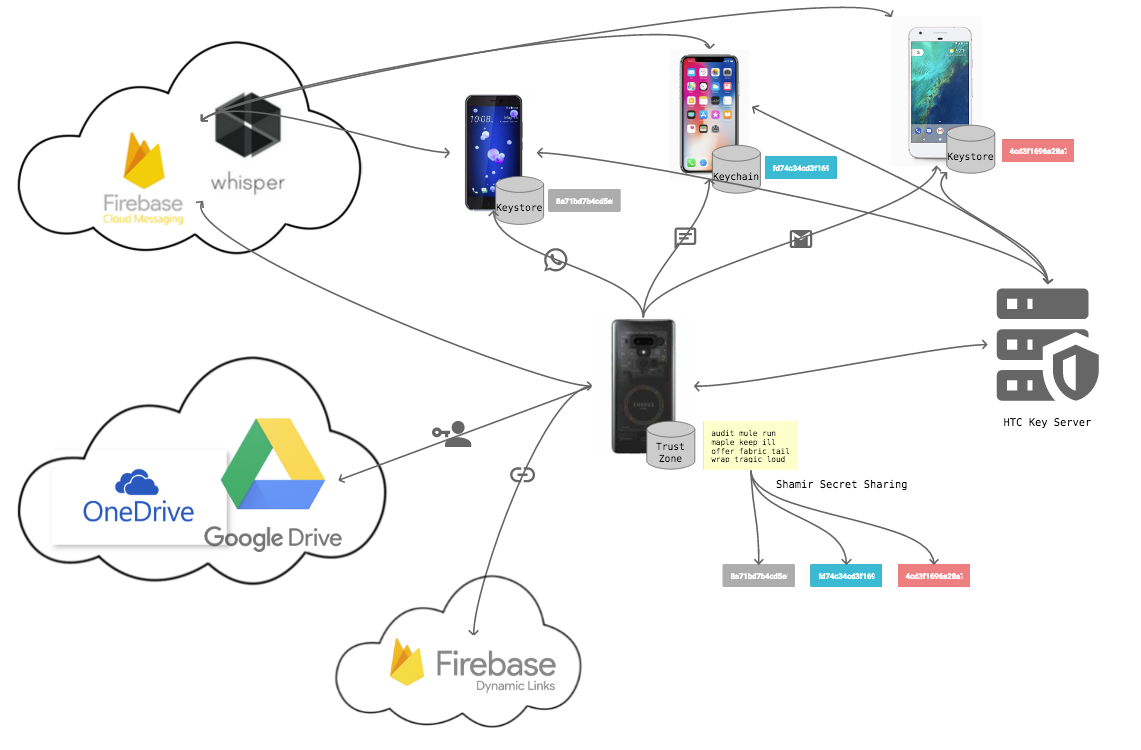
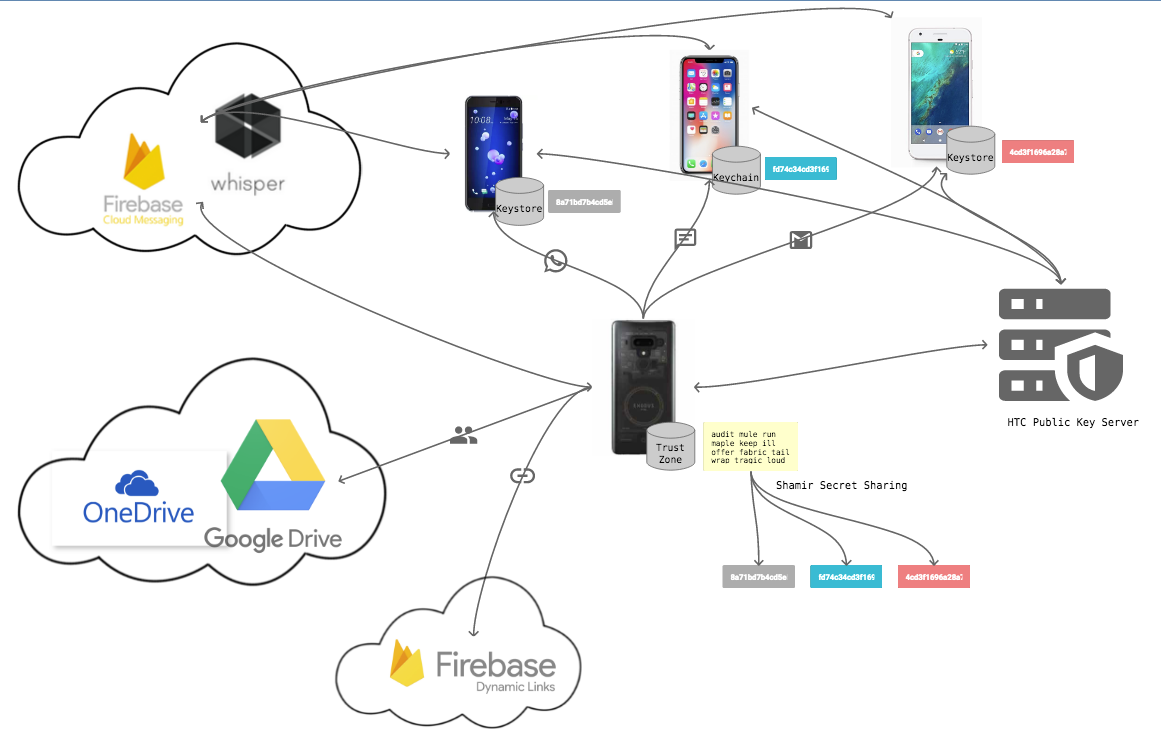
Update README.md

diff --git a/README.md b/README.md
@@ -15,6 +15,8 @@ Zion Social Key Recovery SDK (Zion-SKR-SDK) is an Android library that provides 
 The below architecture diagram describes the components involved when we implement the Social Key Recovery.
 
 ![Architecture](media/architecture.png "Architecture")
+*Note: The HTC Public Key Server stores only the public key for encryption purposes. The private key is only stored in the TEE.*
+
 
 * Wallet app
   * Android  
